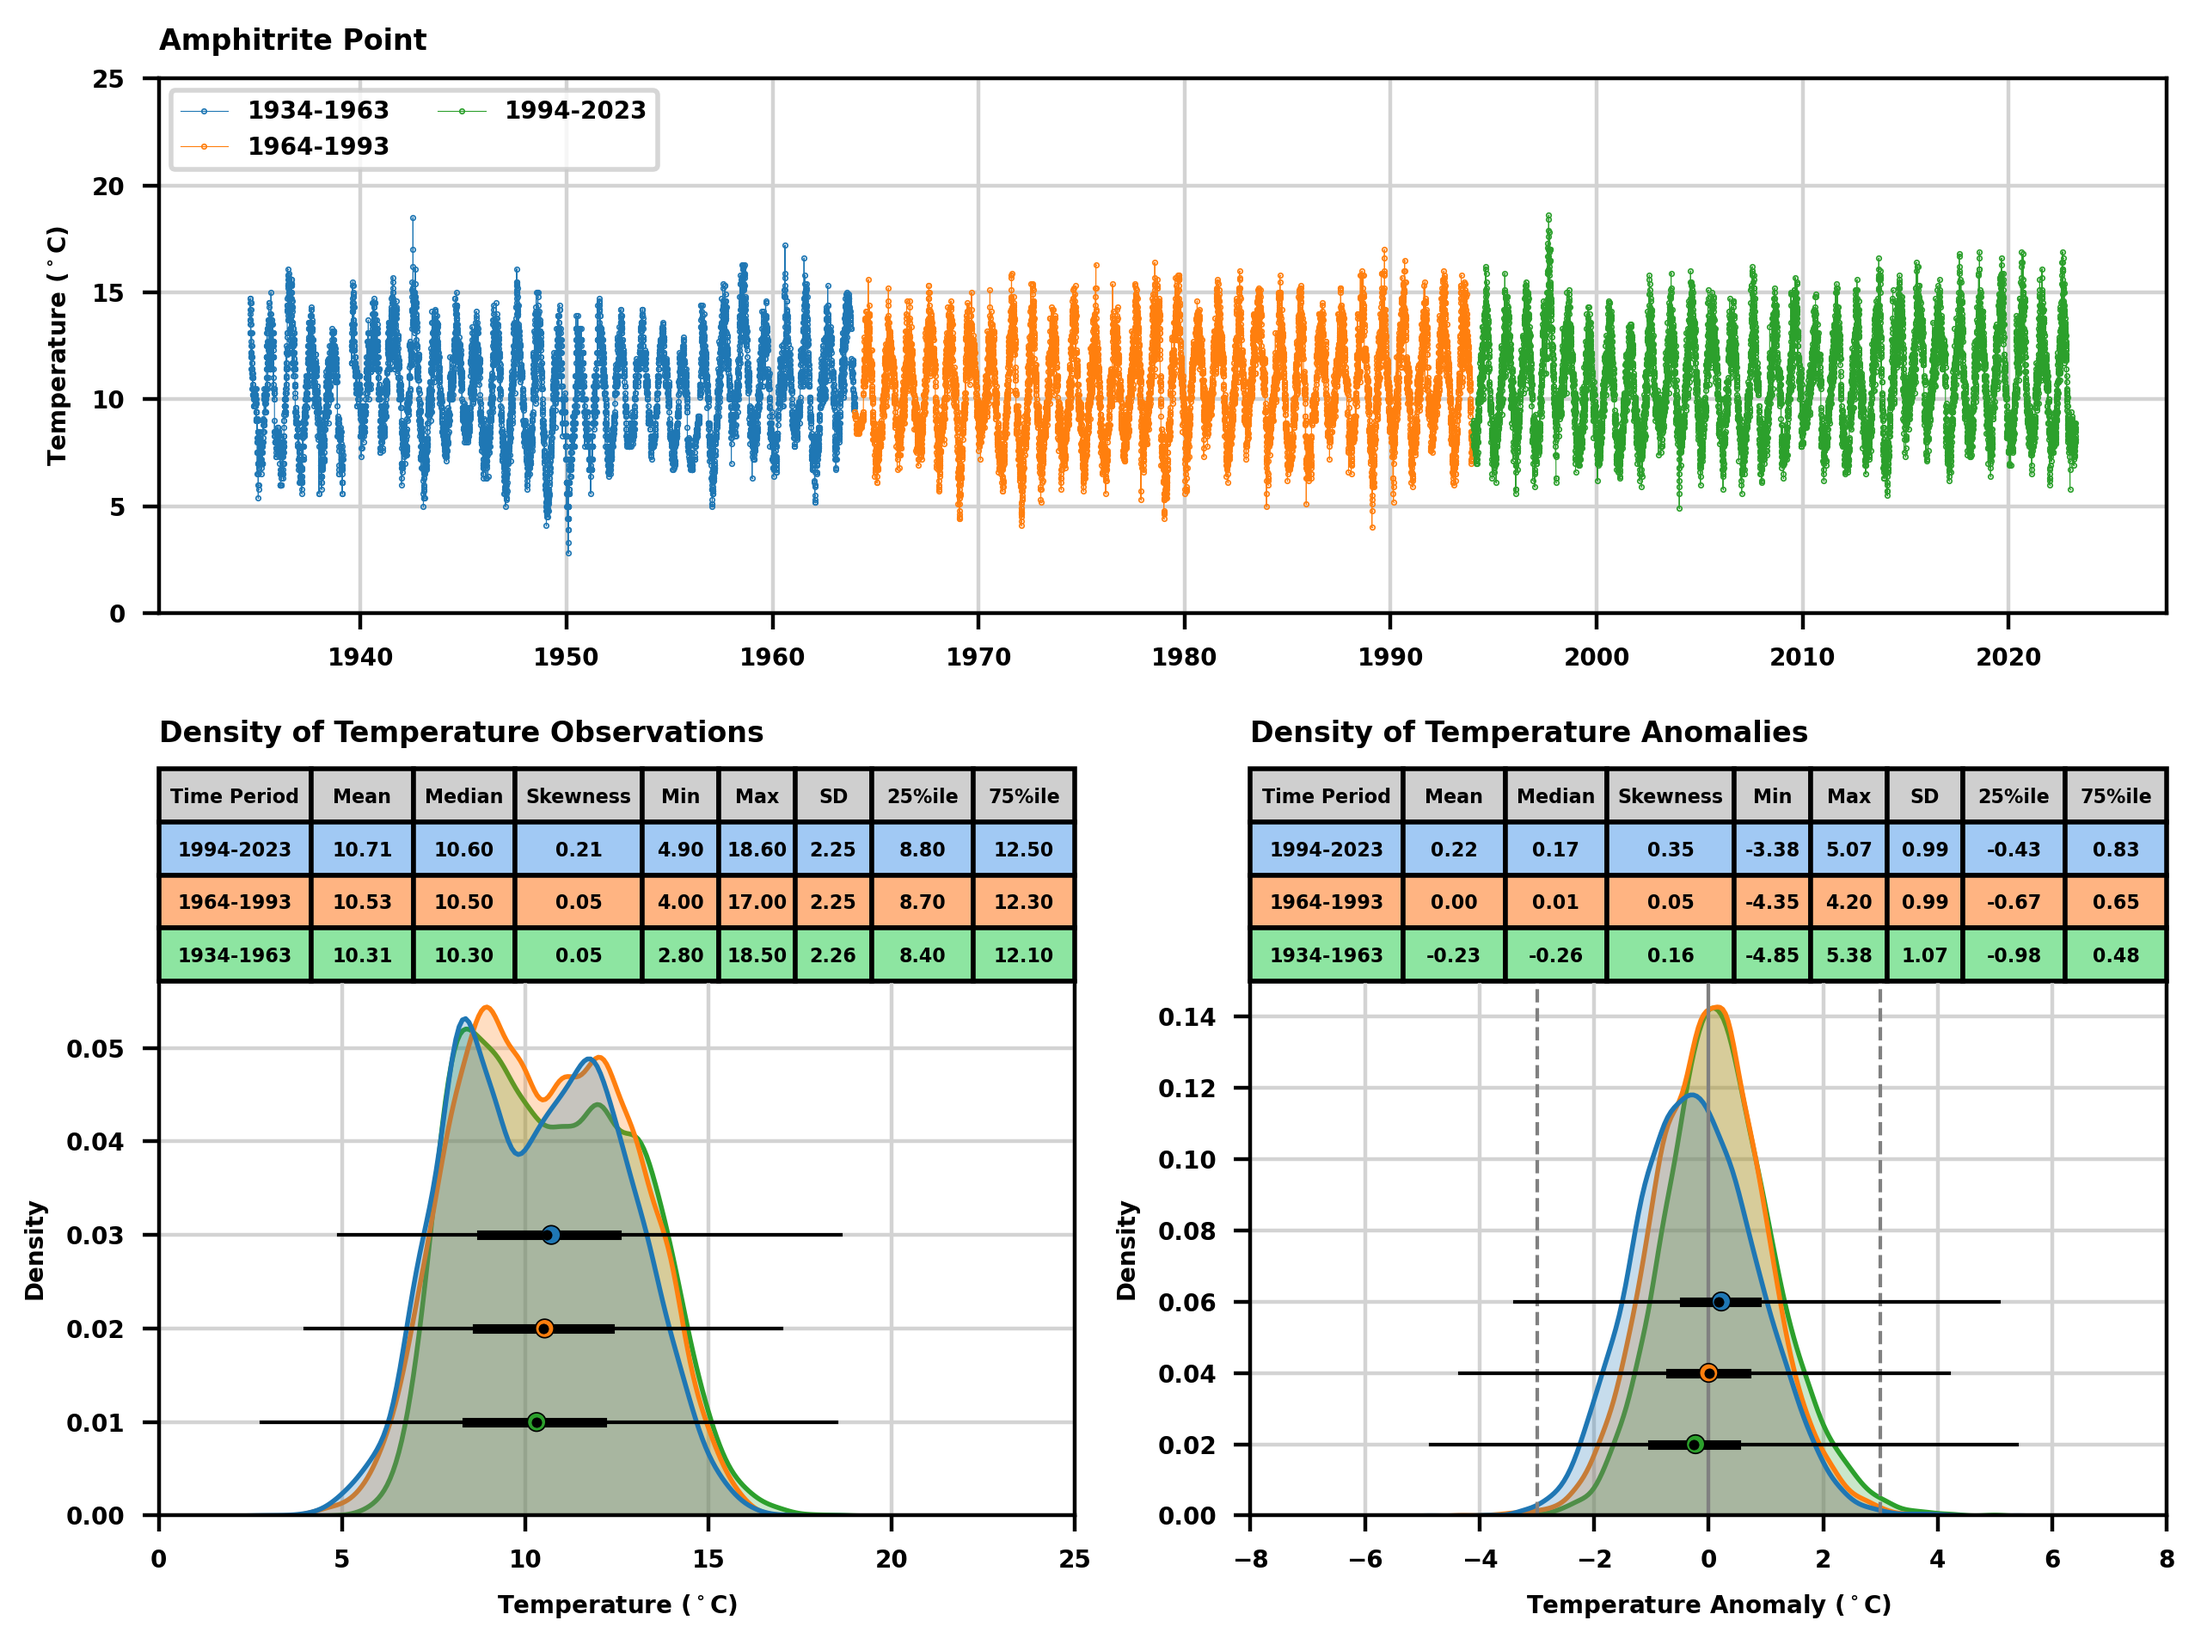
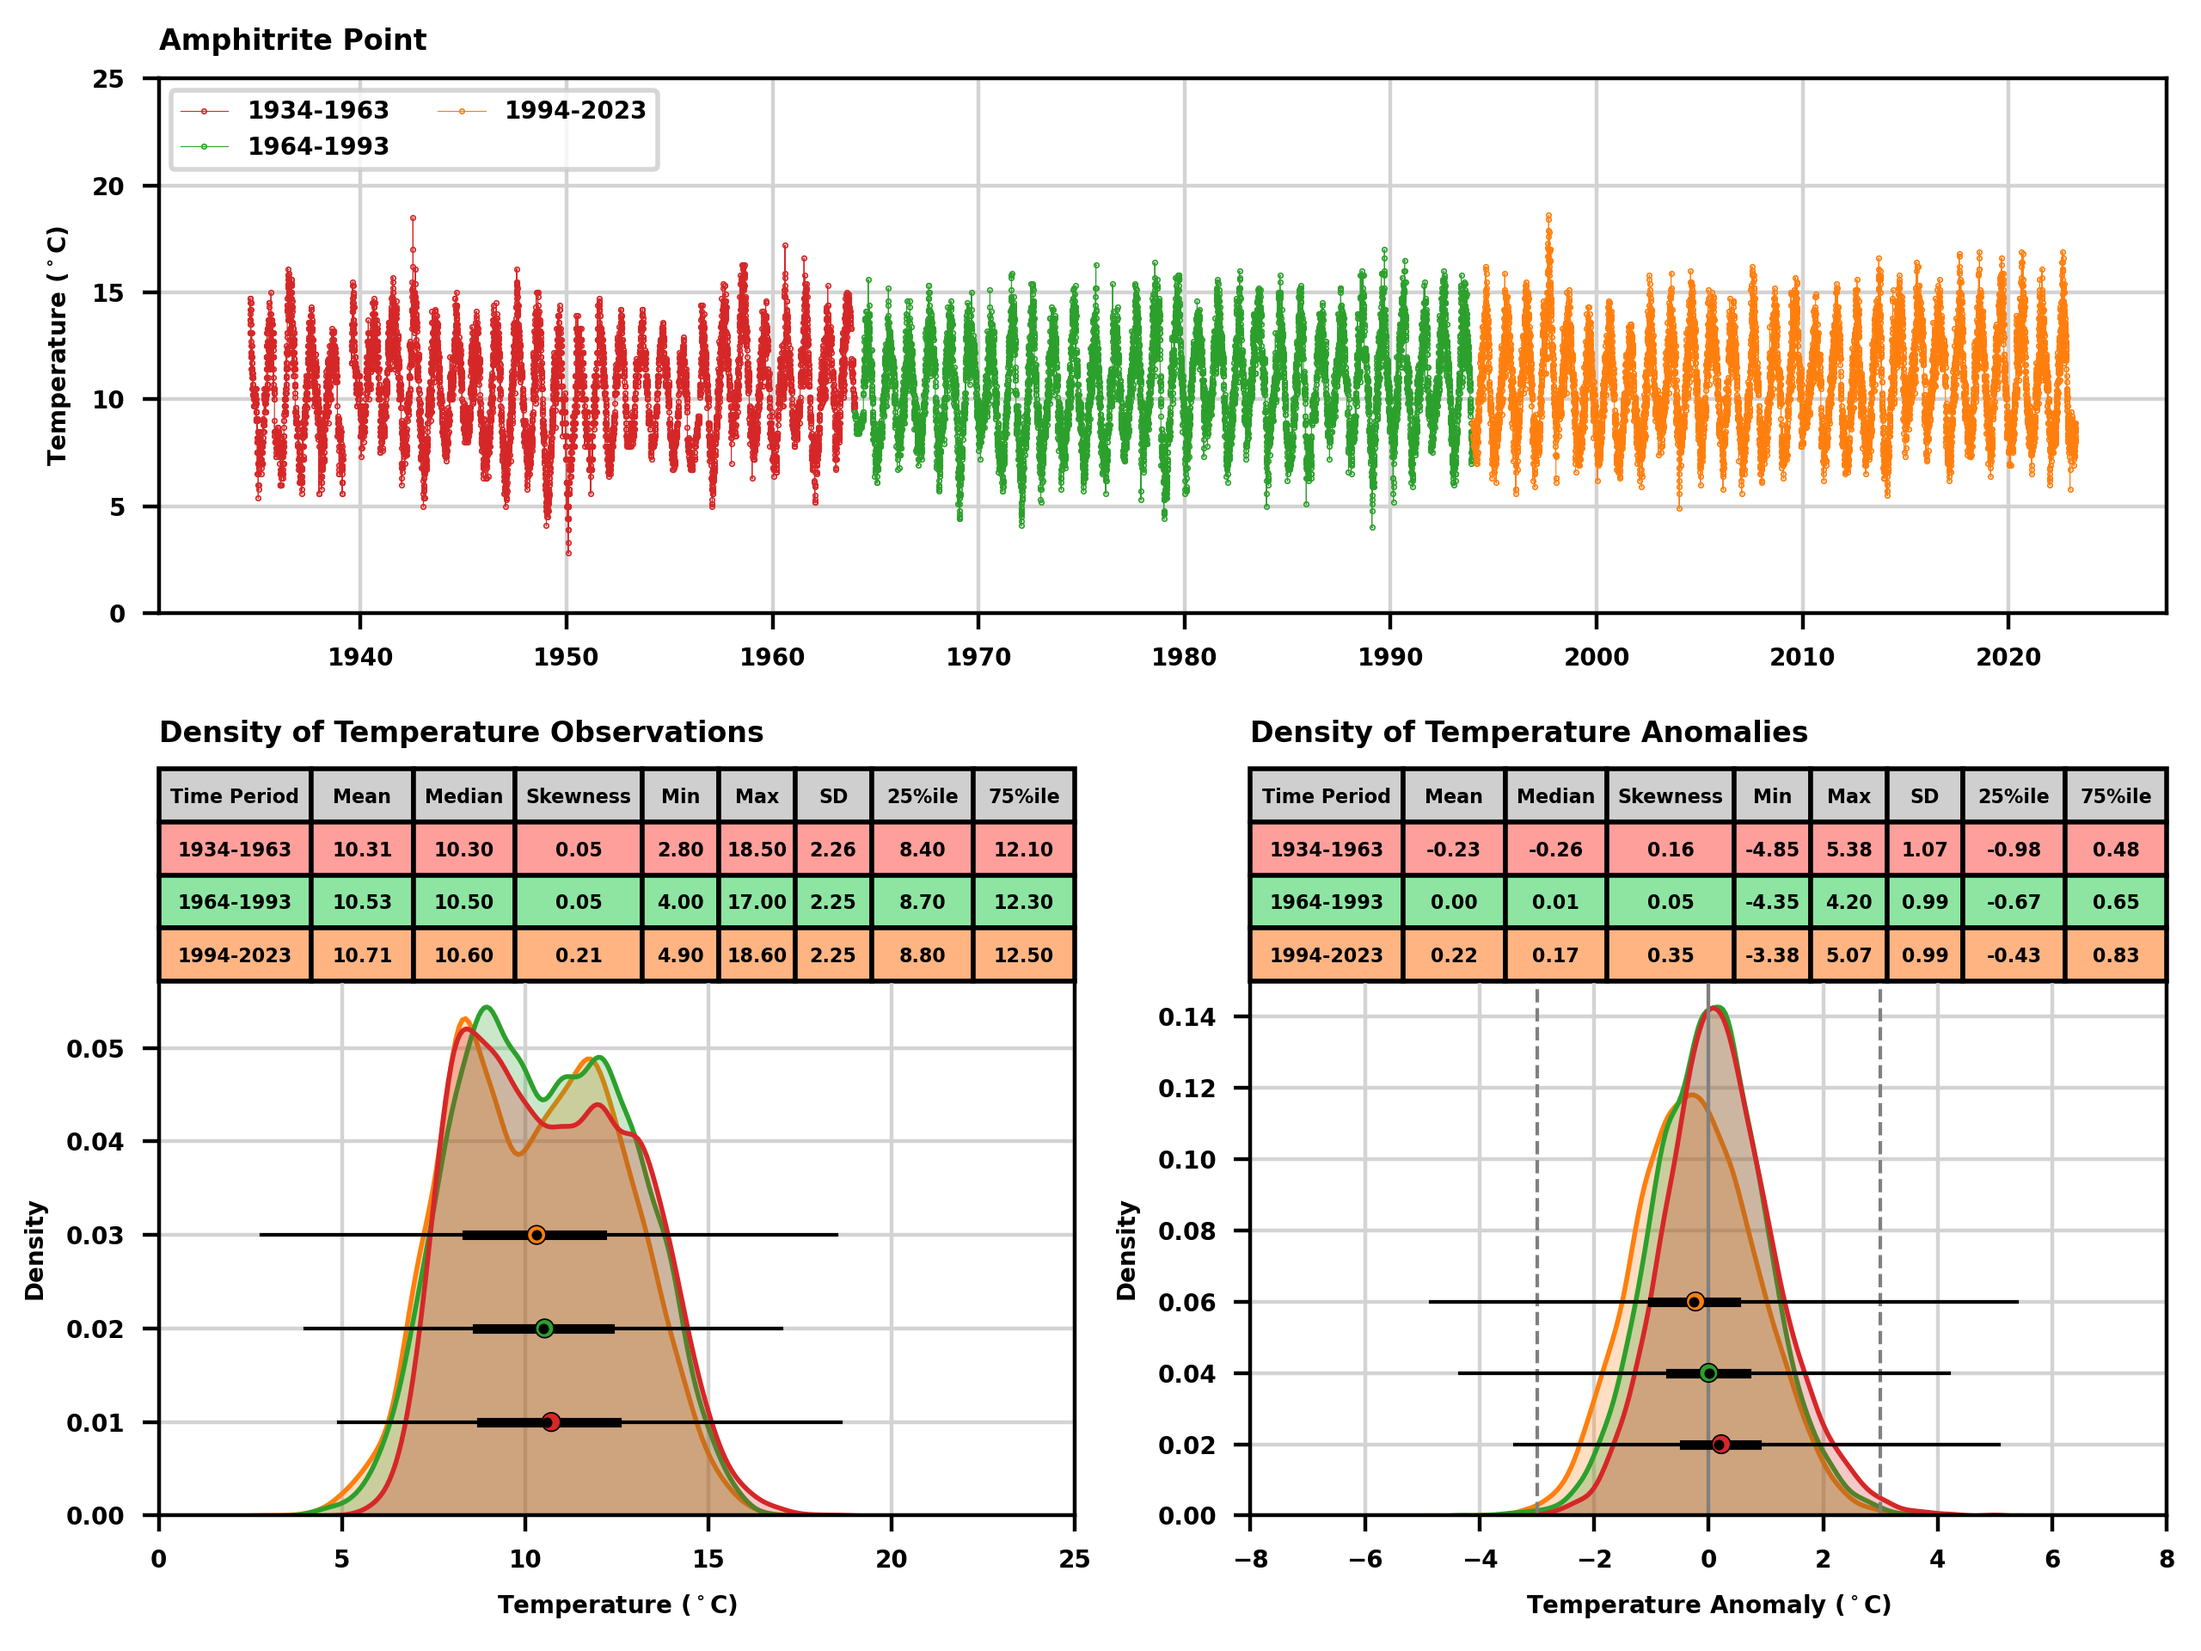
update plots of daily SST statistics so that colors match

diff --git a/scripts/plot_lightstation_temperature.py b/scripts/plot_lightstation_temperature.py
@@ -710,8 +710,10 @@ def make_density_subplot(ax: plt.Axes, df: pd.DataFrame, var: str,
 
     # Suppress legend since it's in the time series plot
     # Have to reverse dataframe order to plot newest data in front
-    sns.kdeplot(df, x=var, hue='Year Range', fill=True,
-                legend=False, ax=ax)
+    color_end = 3-len(year_ranges)-1 if 3 > len(year_ranges) else None
+    sns.kdeplot(df.loc[::-1, :], x=var, hue='Year Range', fill=True,
+                legend=False, ax=ax,
+                palette=sns.color_palette()[3:color_end:-1])
     # Add a light grey grid behind the curves
     ax.set_axisbelow(True)
     plt.grid(which='major', axis='both', color='lightgrey')
@@ -721,8 +723,8 @@ def make_density_subplot(ax: plt.Axes, df: pd.DataFrame, var: str,
     yticks = ax.get_yticks()
     # Add dashed vertical lines at +-3 temperature anomalies and at 0 deg C
     if var == 'Temperature Anomaly(C)':
-        ax.vlines(x=[-3, 3], ymin=ylim[0], ymax=ylim[1], linestyles='dashed', linewidth=0.75,
-                  colors='grey', zorder=1.5)
+        ax.vlines(x=[-3, 3], ymin=ylim[0], ymax=ylim[1], linestyles='dashed',
+                  linewidth=0.75, colors='grey', zorder=1.5)
         ax.vlines(x=0, ymin=ylim[0], ymax=ylim[1], linestyles='solid', linewidth=0.75,
                   colors='grey', zorder=1.5)
 
@@ -763,9 +765,9 @@ def make_density_subplot(ax: plt.Axes, df: pd.DataFrame, var: str,
 
     # Add colors to table rows corresponding to density curves by year range
     ncols = len(cellText[0])
-    tab = table(ax, cellText=cellText, rowLabels=None,
+    tab = table(ax, cellText=cellText[::-1], rowLabels=None,
                 cellColours=[
-                    [sns.color_palette('pastel')[k]] * ncols for k in range(len(year_ranges))
+                    [sns.color_palette('pastel')[3 - k]] * ncols for k in range(len(year_ranges))
                 ],
                 colColours=[sns.color_palette('pastel')[-3]] * ncols,  # grey for column headers
                 colLabels=stat_table_cols, loc='top', cellLoc='center',
@@ -796,8 +798,7 @@ def make_density_subplot(ax: plt.Axes, df: pd.DataFrame, var: str,
     # Add column containing the y coordinates for plotting the boxplots
     # Set the y values at which the box plots will be plotted, descending order
     # Leave some buffer room at the top and bottom edges of the plot
-    # df_stats['y values'] = yticks[1:len(df_stats) + 1]
-    df_stats['y values'] = yticks[len(df_stats):0:-1]
+    df_stats['y values'] = yticks[1:len(df_stats) + 1]
 
     # median as black dot, drawn on top of larger coloured mean dot
     # Artists with higher zorder are drawn on top.
@@ -808,6 +809,7 @@ def make_density_subplot(ax: plt.Axes, df: pd.DataFrame, var: str,
 
     # mean as filled dot, match opacity of density curves with alpha
     sns.scatterplot(df_stats, x='Mean', y='y values', hue='Year Range',
+                    palette=sns.color_palette()[3:color_end:-1],
                     legend=False, ax=ax, marker='o', s=15,
                     edgecolor='k', zorder=2.4)
 
@@ -980,7 +982,7 @@ def plot_daily_T_statistics():
             mask = df_obs.loc[:, 'Year Range'] == yr
             ax1.plot(df_obs.loc[mask, 'Datetime'], df_obs.loc[mask, 'Temperature(C)'],
                      linewidth=0.2, marker='o', markeredgecolor=None, markersize=0.3,
-                     c=colours[k], label=yr, markerfacecolor=colours[k])
+                     c=colours[3 - k], label=yr, markerfacecolor=colours[3 - k])
         plt.grid(which='major', axis='both', color='lightgrey')
         ax1.legend(loc='upper left', ncol=2)
         ax1.set_ylim((0, 25))
